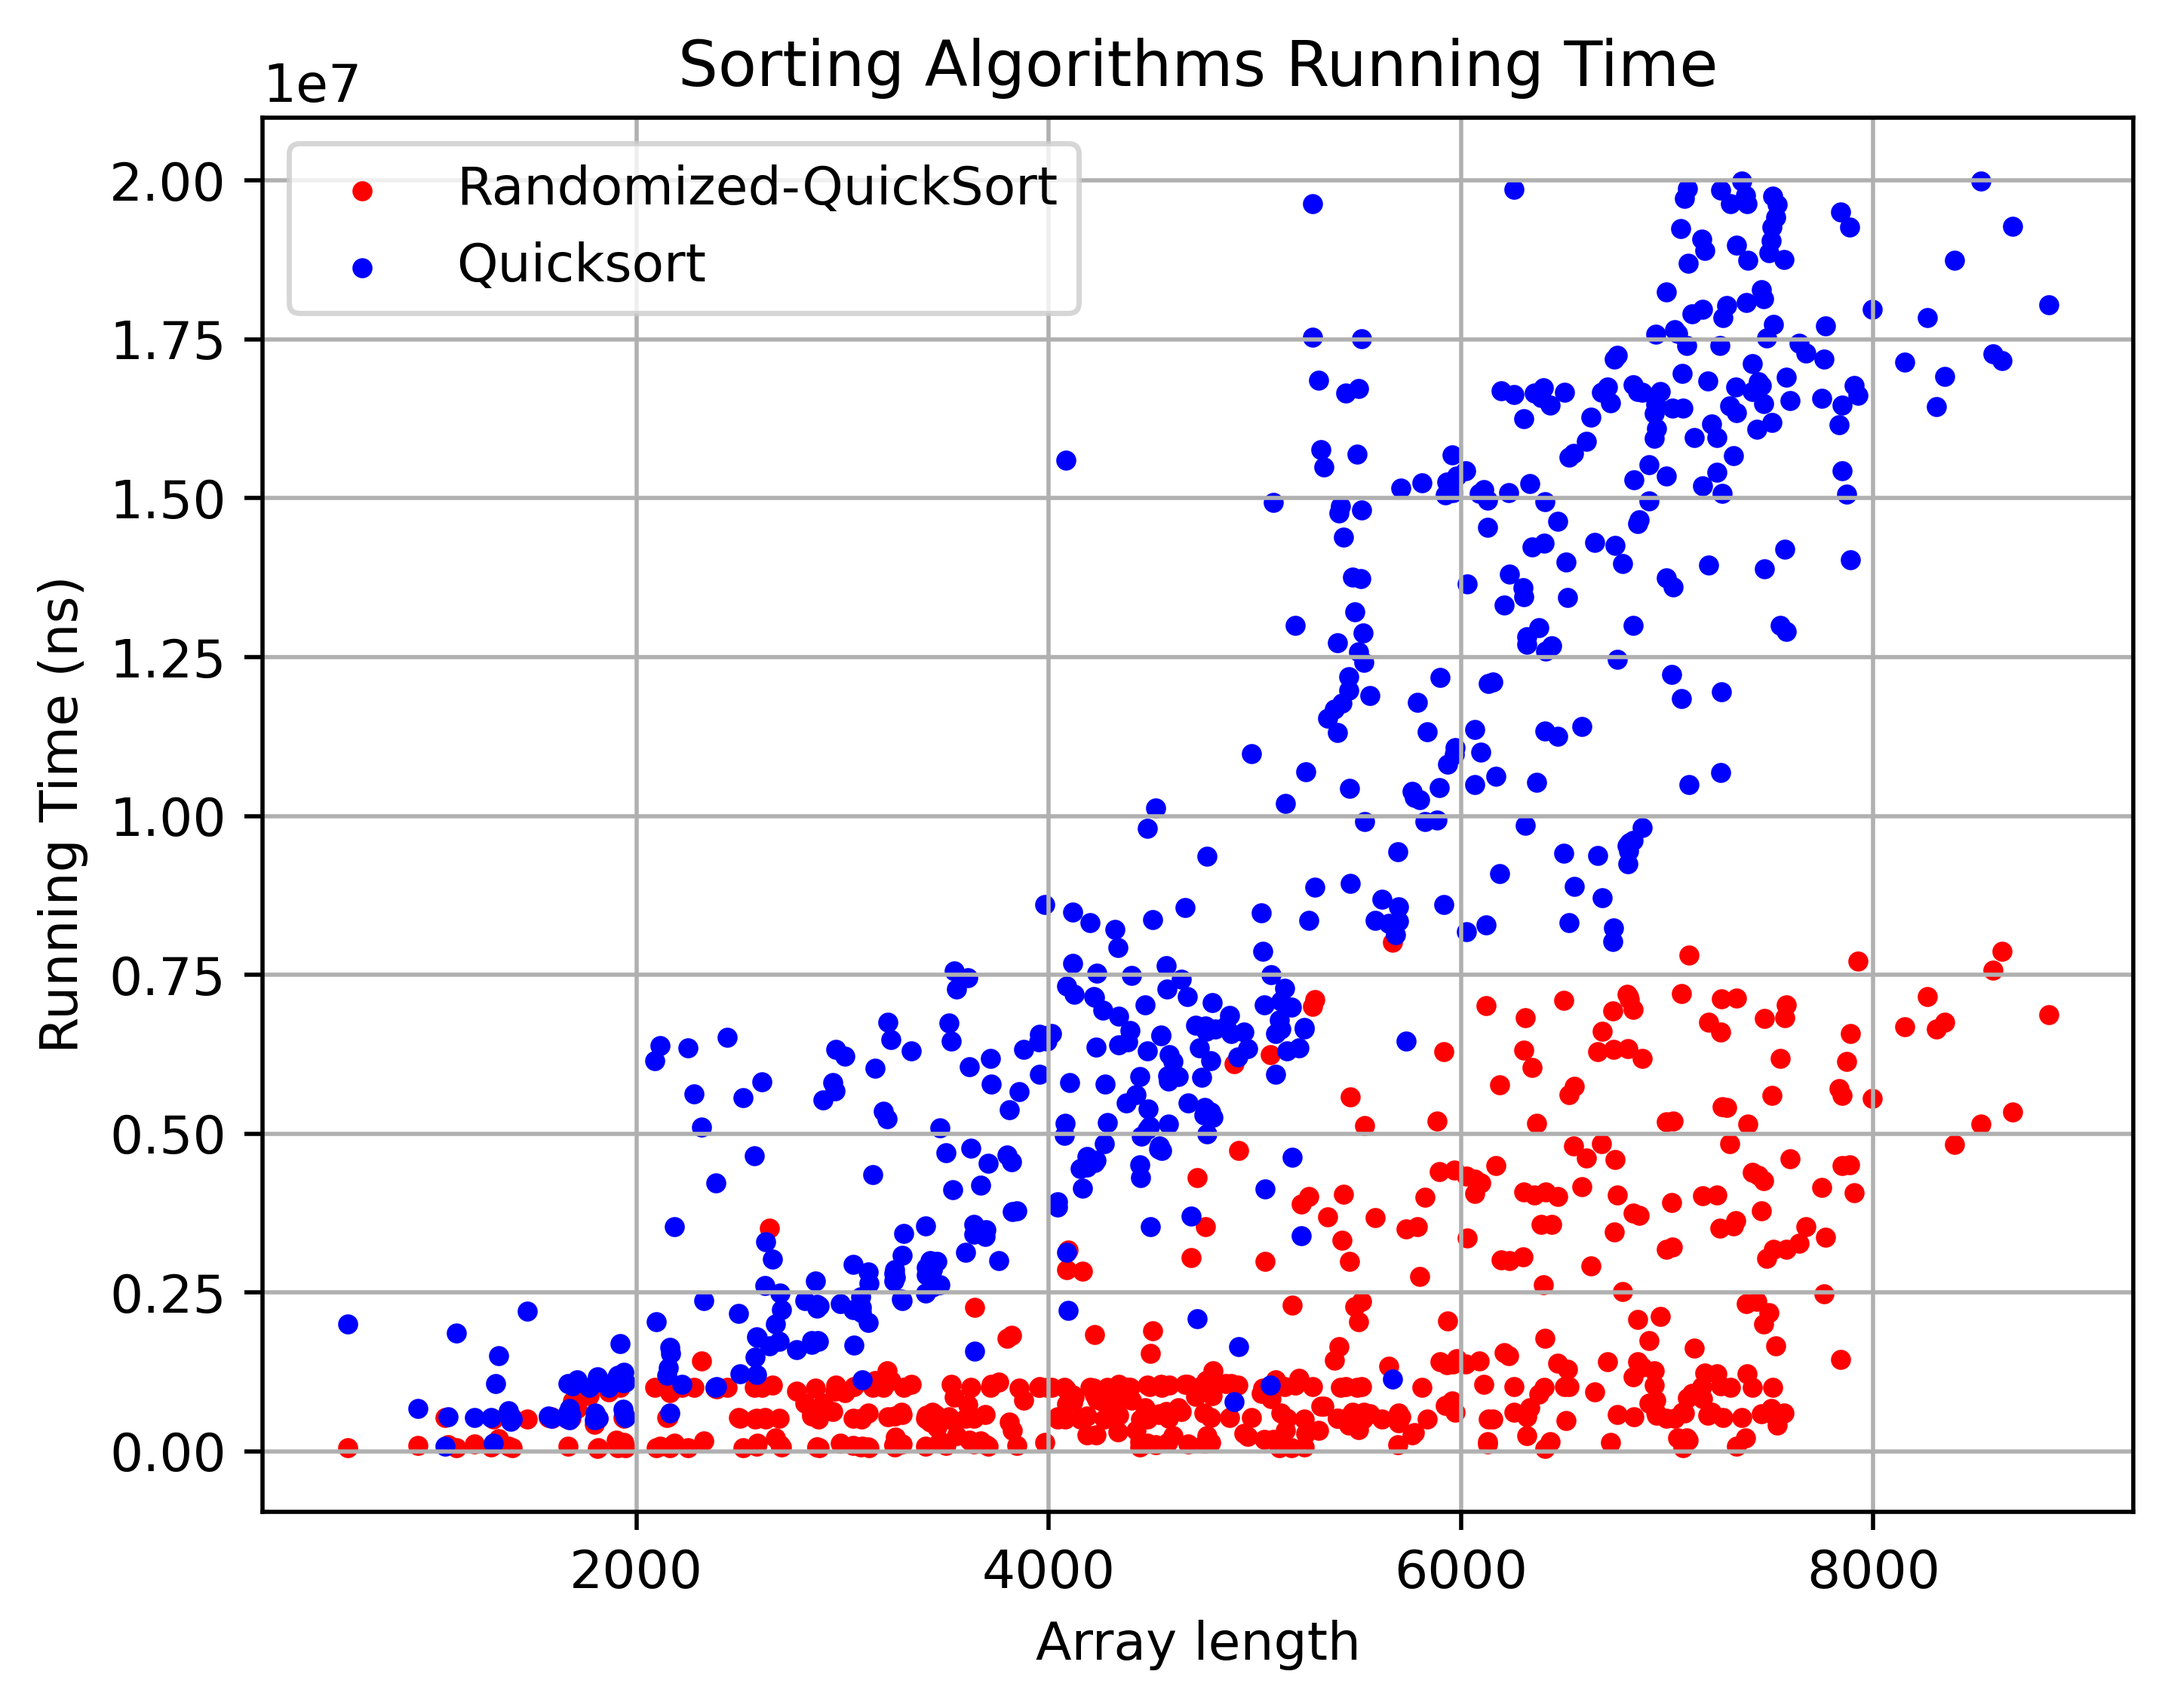
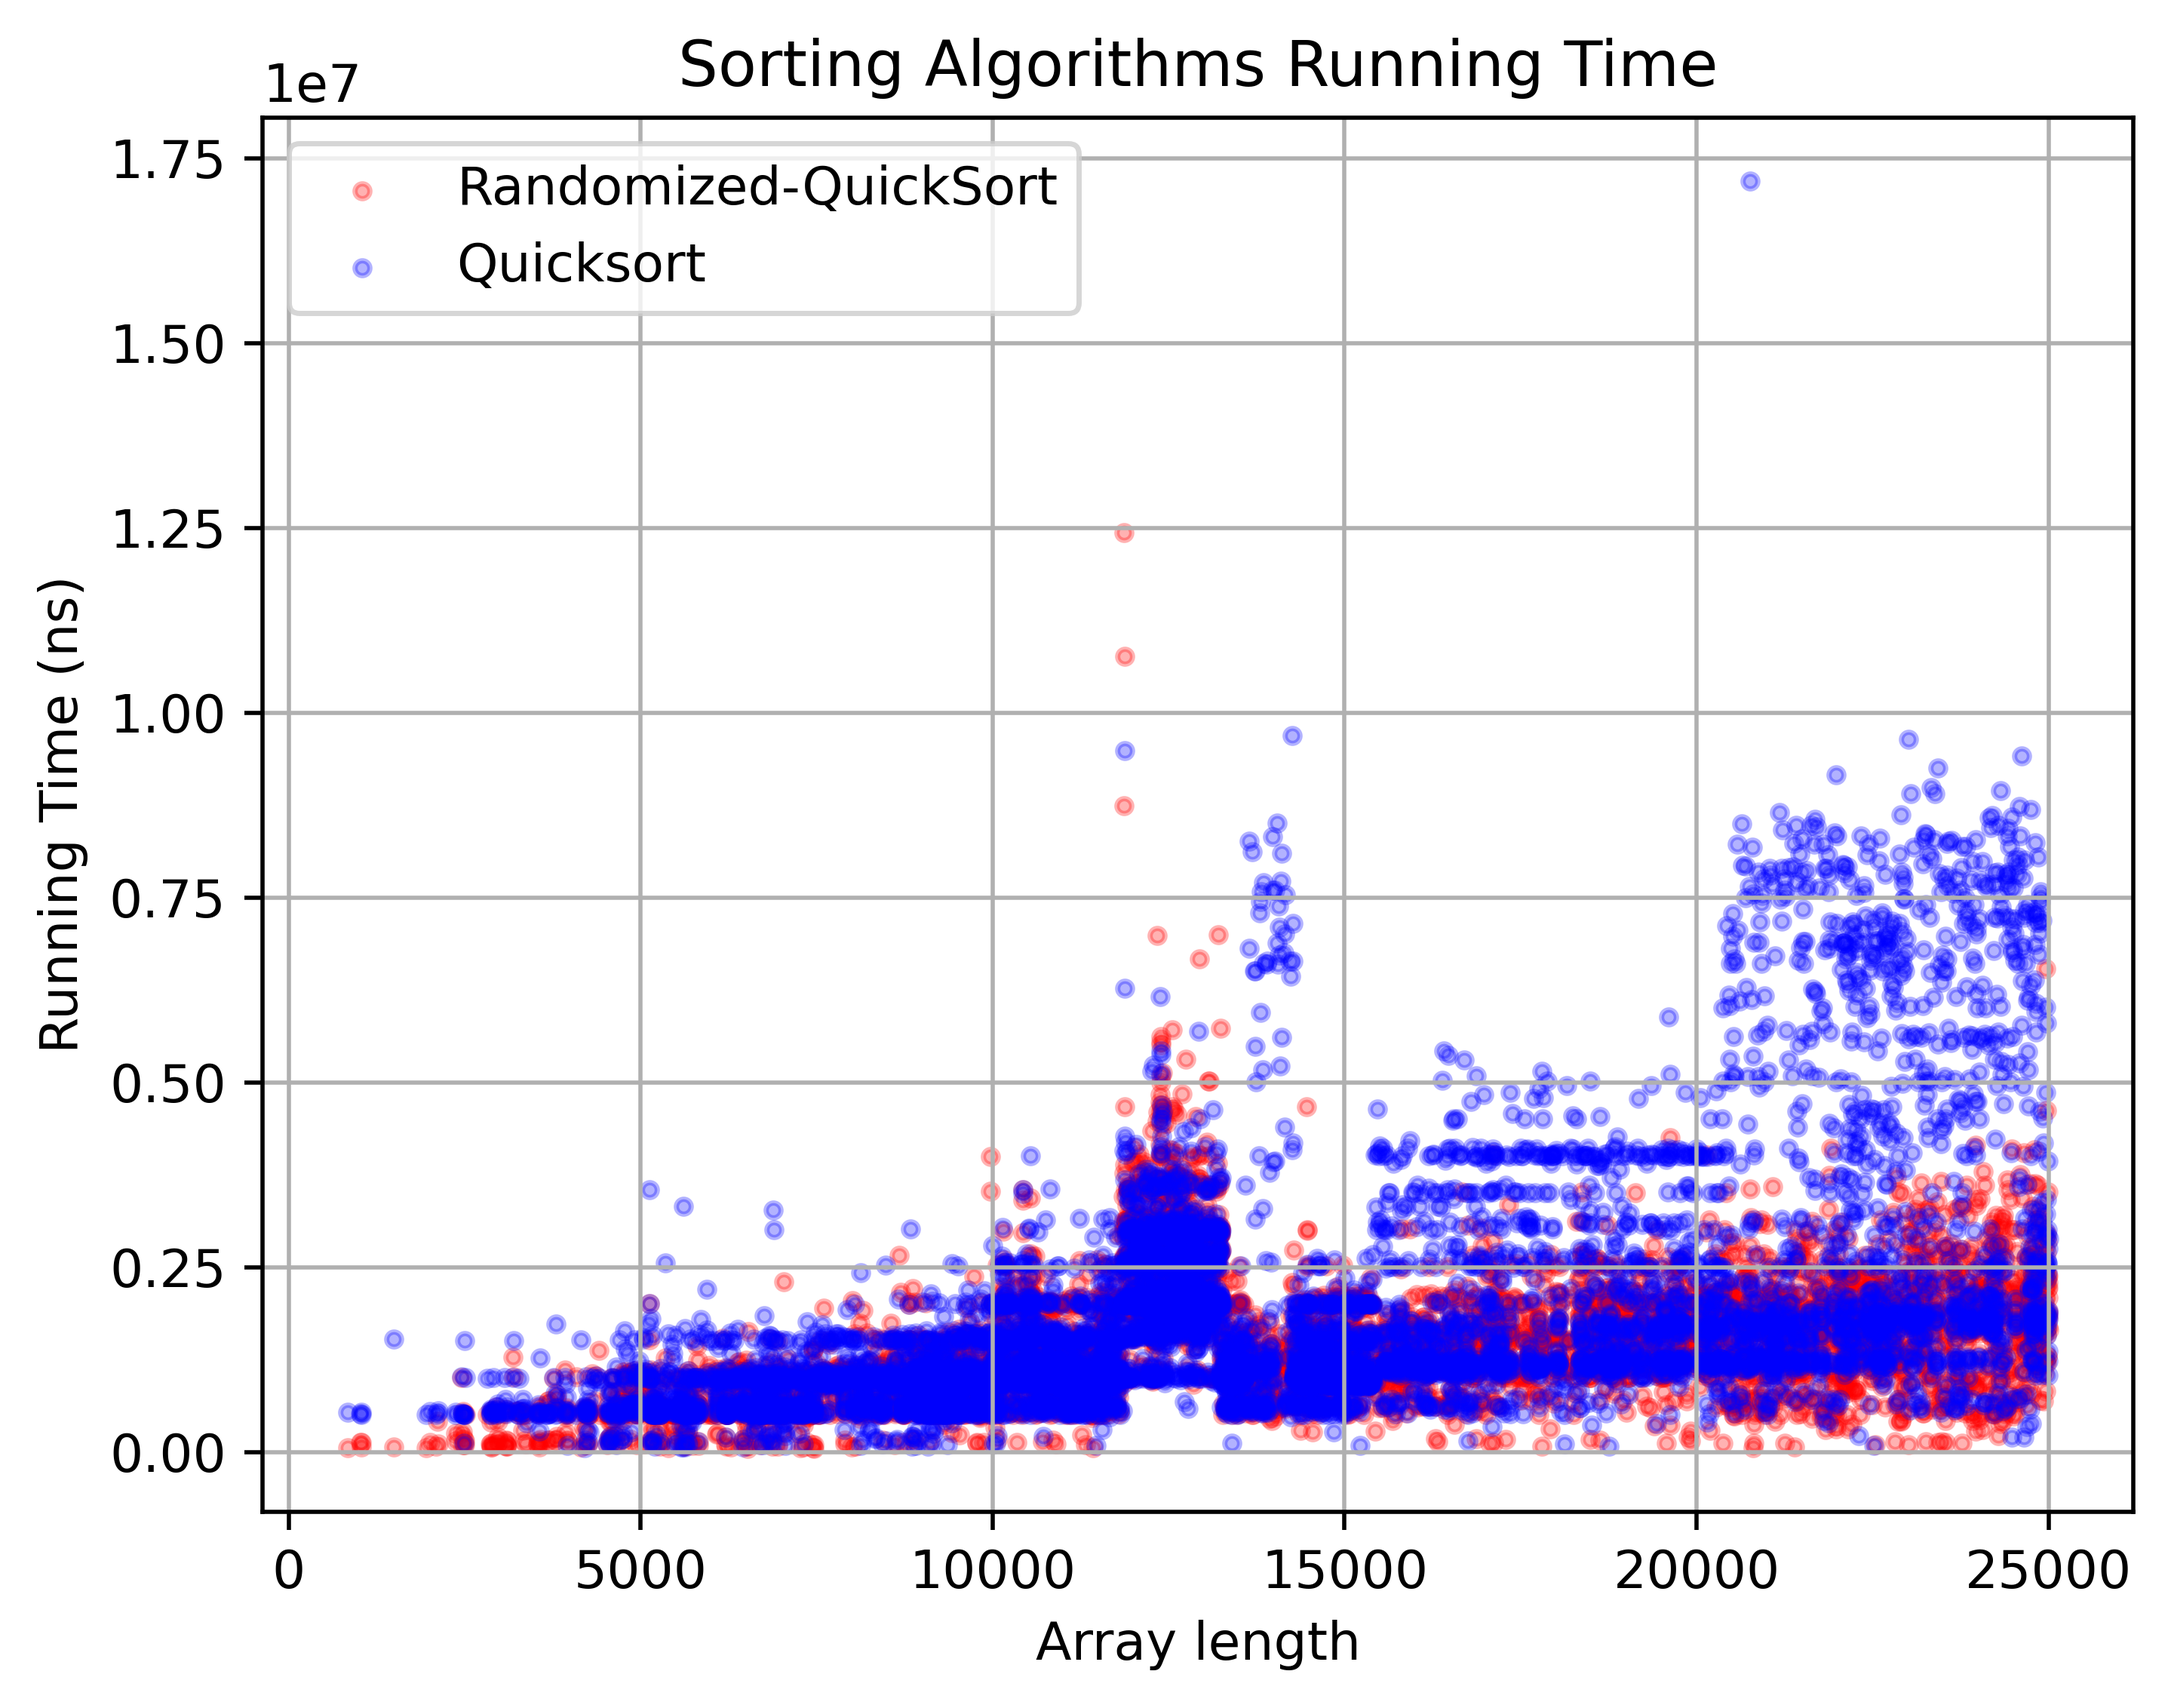
chore: display comparison quicksort

diff --git a/python/display/display-quicksort-comparison.py b/python/display/display-quicksort-comparison.py
@@ -22,9 +22,9 @@ n = n[mask]
 randomized = randomized[mask]
 regular = regular[mask]
 
-plt.scatter(n, randomized, color='red',s=8, label='Randomized-QuickSort')
+plt.scatter(n, randomized, color='red',s=8, label='Randomized-QuickSort', alpha=0.3)
 
-plt.scatter(n, regular, color='blue',s=8, label='Quicksort')
+plt.scatter(n, regular, color='blue',s=8, label='Quicksort', alpha=0.3)
 
 plt.title("Sorting Algorithms Running Time")
 plt.xlabel("Array length")
